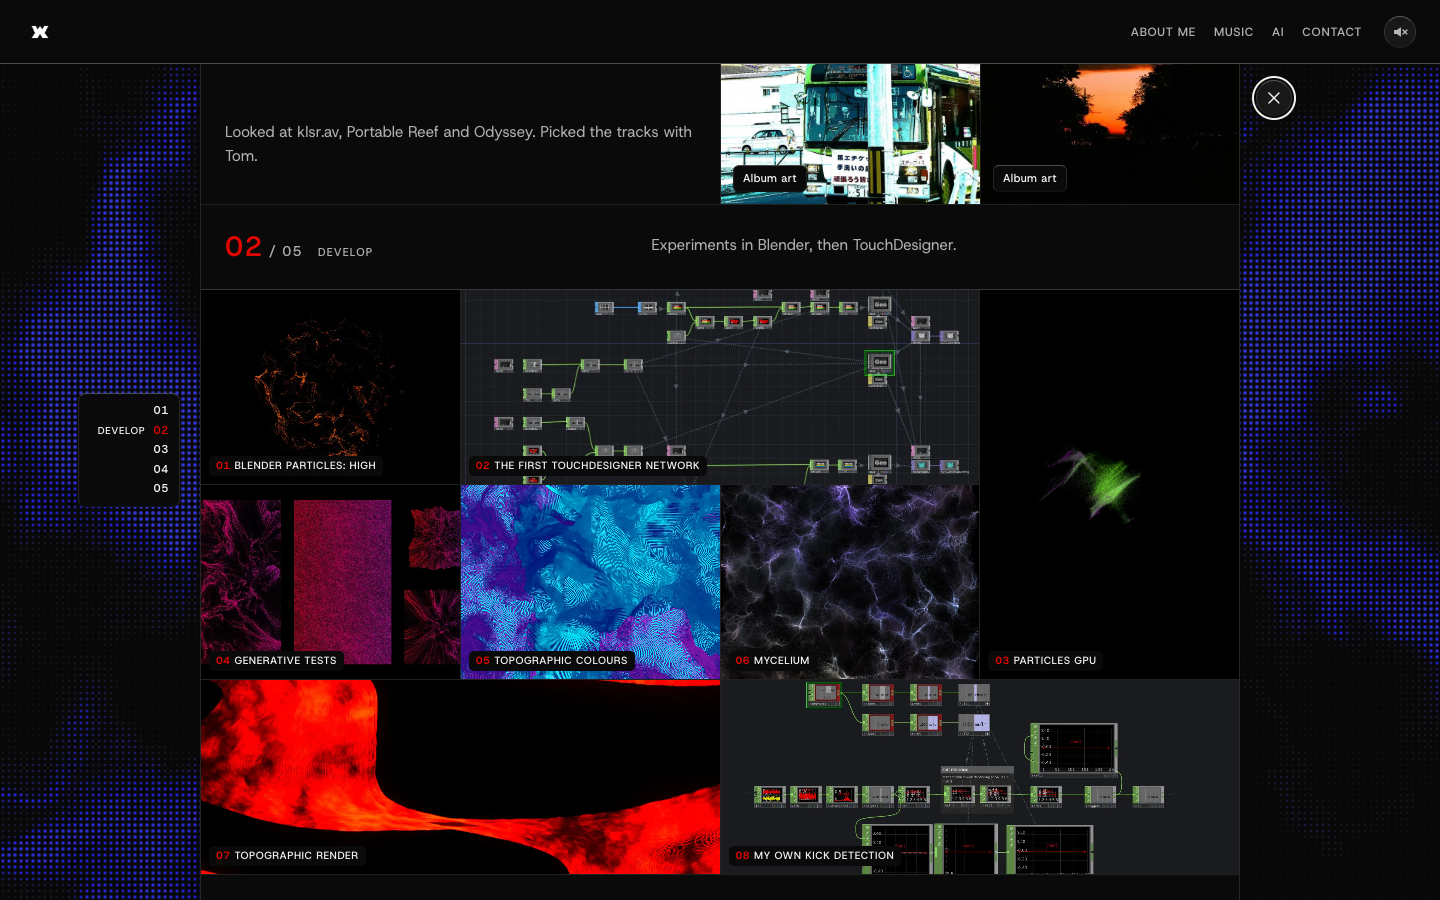
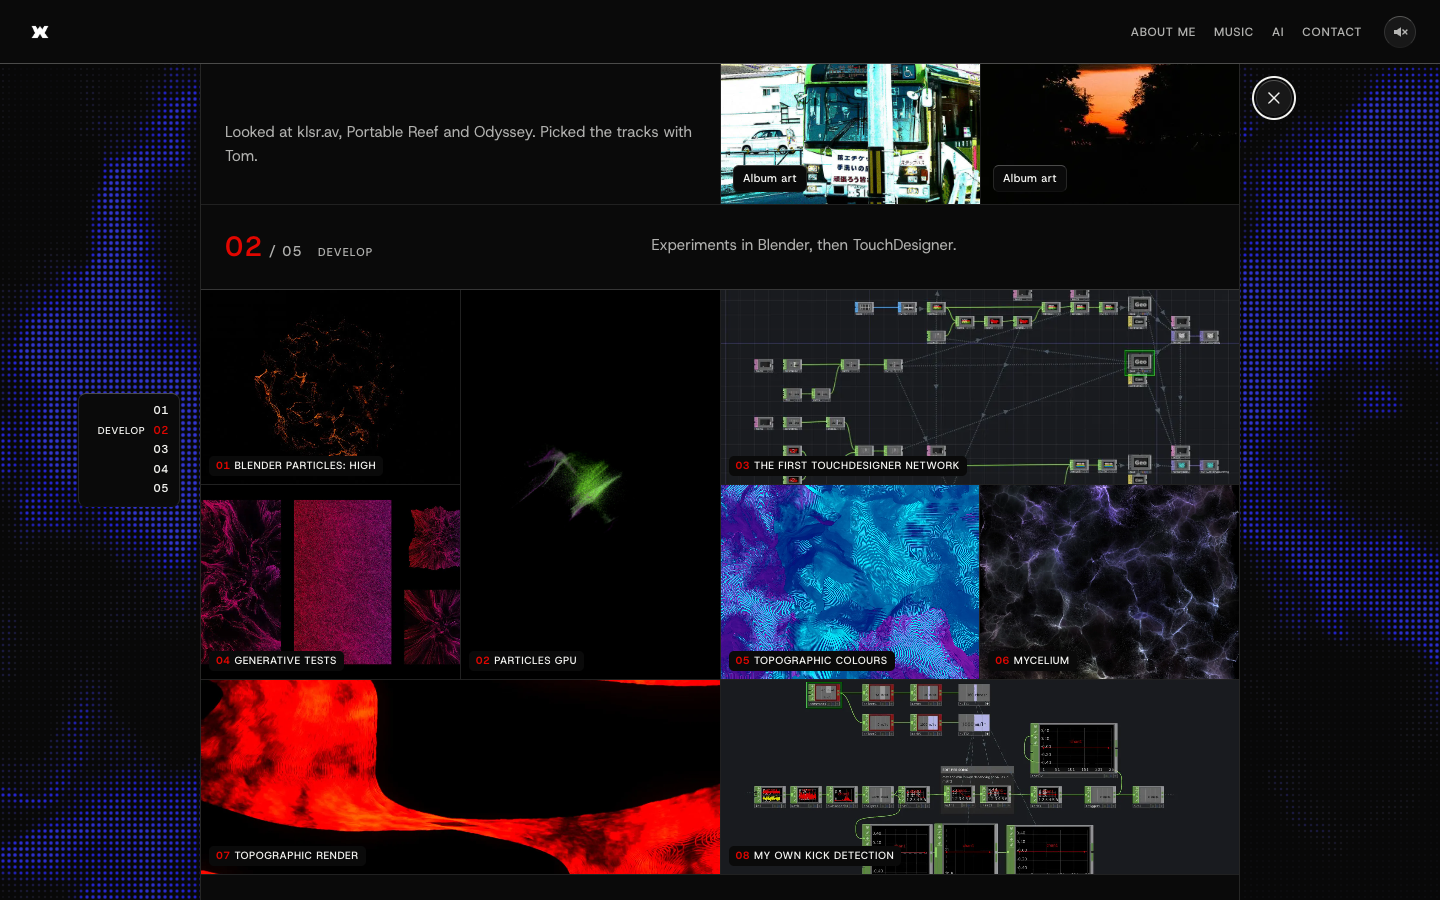
Project Sheet amplified-spaces: T2b fixes from rescore

Changed region(s): [[0.3125, 0.3111, 0.875, 0.7778]]

diff --git a/app/components/sheets/amplified-spaces/T2b.vue b/app/components/sheets/amplified-spaces/T2b.vue
@@ -83,7 +83,7 @@ const wipe = computed(() => {
 // a second Blender particles and Particles GPU frame, the second topographic colours). Spans: the two networks and the
 // topographic render two columns wide (the render only above 720px), the GPU particles two rows tall (dense flow packs
 // the 4-column sheet with no holes; on phones the 2-column sheet has no holes either: area 10)
-const SHEET = ['p13-2', 'p16-0', 'p23-1', 'p24-0', 'p27-1', 'p33-0', 'p29-0', 'p31-0']
+const SHEET = ['p13-2', 'p23-1', 'p16-0', 'p24-0', 'p27-1', 'p33-0', 'p29-0', 'p31-0']
 const tiles = computed(() => SHEET.map(k => develop.value?.media.find(m => m.src.includes(`/${k}.`))).filter(Boolean) as NonNullable<typeof develop.value>['media'])
 const span = (src: string) => /p16-0|p31-0/.test(src) ? 'cs__cell--wide' : /p29-0/.test(src) ? 'cs__cell--wide cs__cell--wide-d' : /p23-1/.test(src) ? 'cs__cell--tall' : ''
 
@@ -550,7 +550,7 @@ onBeforeUnmount(() => {
 
 .rv__steps span {
   font: 400 13.5px/1.45 var(--font-ui);
-  color: var(--muted);
+  color: color-mix(in srgb, var(--c-fg) 85%, transparent);
 }
 
 .rv__frame {

diff --git a/.scratch/v1-launch/overnight/amplified-spaces/matrix.md b/.scratch/v1-launch/overnight/amplified-spaces/matrix.md
@@ -98,3 +98,14 @@ Both judges pick T2b: short copy, varied beats. T2 loses c10 on padded copy (sta
 The battery-throttled runs earlier (19/23 each) are void. The scorer writes stills to a doubled `.scratch/` path when `--out` is a path, not a label.
 Agreed fixes for T2b: raise inactive B17 tab contrast; unique tile labels (two "Particles GPU", two "Topographic colours"), cut to ~8 tiles; name what broke in "The CRT look for B17 was a struggle." or cut it; phone thumbnail clips "02 FADING".
 Split: the closing big type behind the crit video. Judge (T2b first) says cut it (the repeated device, clipped at the edge); judge (T2 first) says keep it (used once). Will decides.
+
+## T2b fixes from the rescore, 2026-10-07 (r3: machine 23/23, mains power)
+
+Will approved six fixes, all in `T2b.vue` (phone chip CSS also in `AsLead.vue`). Stills `stills/r3/`, grid `T2b-grid.png`.
+1. Cut the giant "Final crit" scroll type and its scroll code (`cb__type`, the `--cb` view-timeline, the sticky stage). The crit video now runs full-bleed under the problems, then the outcome line, then the three rooms.
+2. B17 wipe steps (Network / Visual): inactive opacity 0.3 -> 0.62, step text from `--muted` to `--c-fg` at 85%.
+3. Contact sheet: 12 tiles -> 8, every caption unique, in reading order 01-08 (Blender particles: high, Particles GPU, first TD network, generative tests, topographic colours, mycelium, topographic render, own kick detection). Spans: GPU 2 rows tall, network, render and kick 2 columns wide, no holes at 4 columns; on phones the render and GPU are single cells (2 columns, area 10, no holes).
+4. "The CRT look for B17 was a struggle." -> "The CRT build for B17 was the hardest part: RGB split, hexagon pixels, lens distort, bloom." (the Define wipe's Visual step lists the same effects, so the line repeats it; cut it if that reads as padding).
+5. Phone chip: full title ("Fading Away") with the number on its own line (`.ld__label b` block, max-width 100% - 12px). T2b no longer passes `short`; AsLead's `short` support is now unused. The same phone CSS applies to T2/T3/T1.
+6. Rail: the phase marker now turns on when a phase's heading is in view (view bottom - 80px) instead of at the view's middle, so it agrees with the "03 / 05 Define" caption under the mosaic.
+Scores: runs under load from the parallel workflow read 20-23; criterion 8 (slow frames) is the noisy one. Saved r3 run: 23/23 (open 632ms, close 411ms, 1 slow frame). Judged criteria not rerun.
